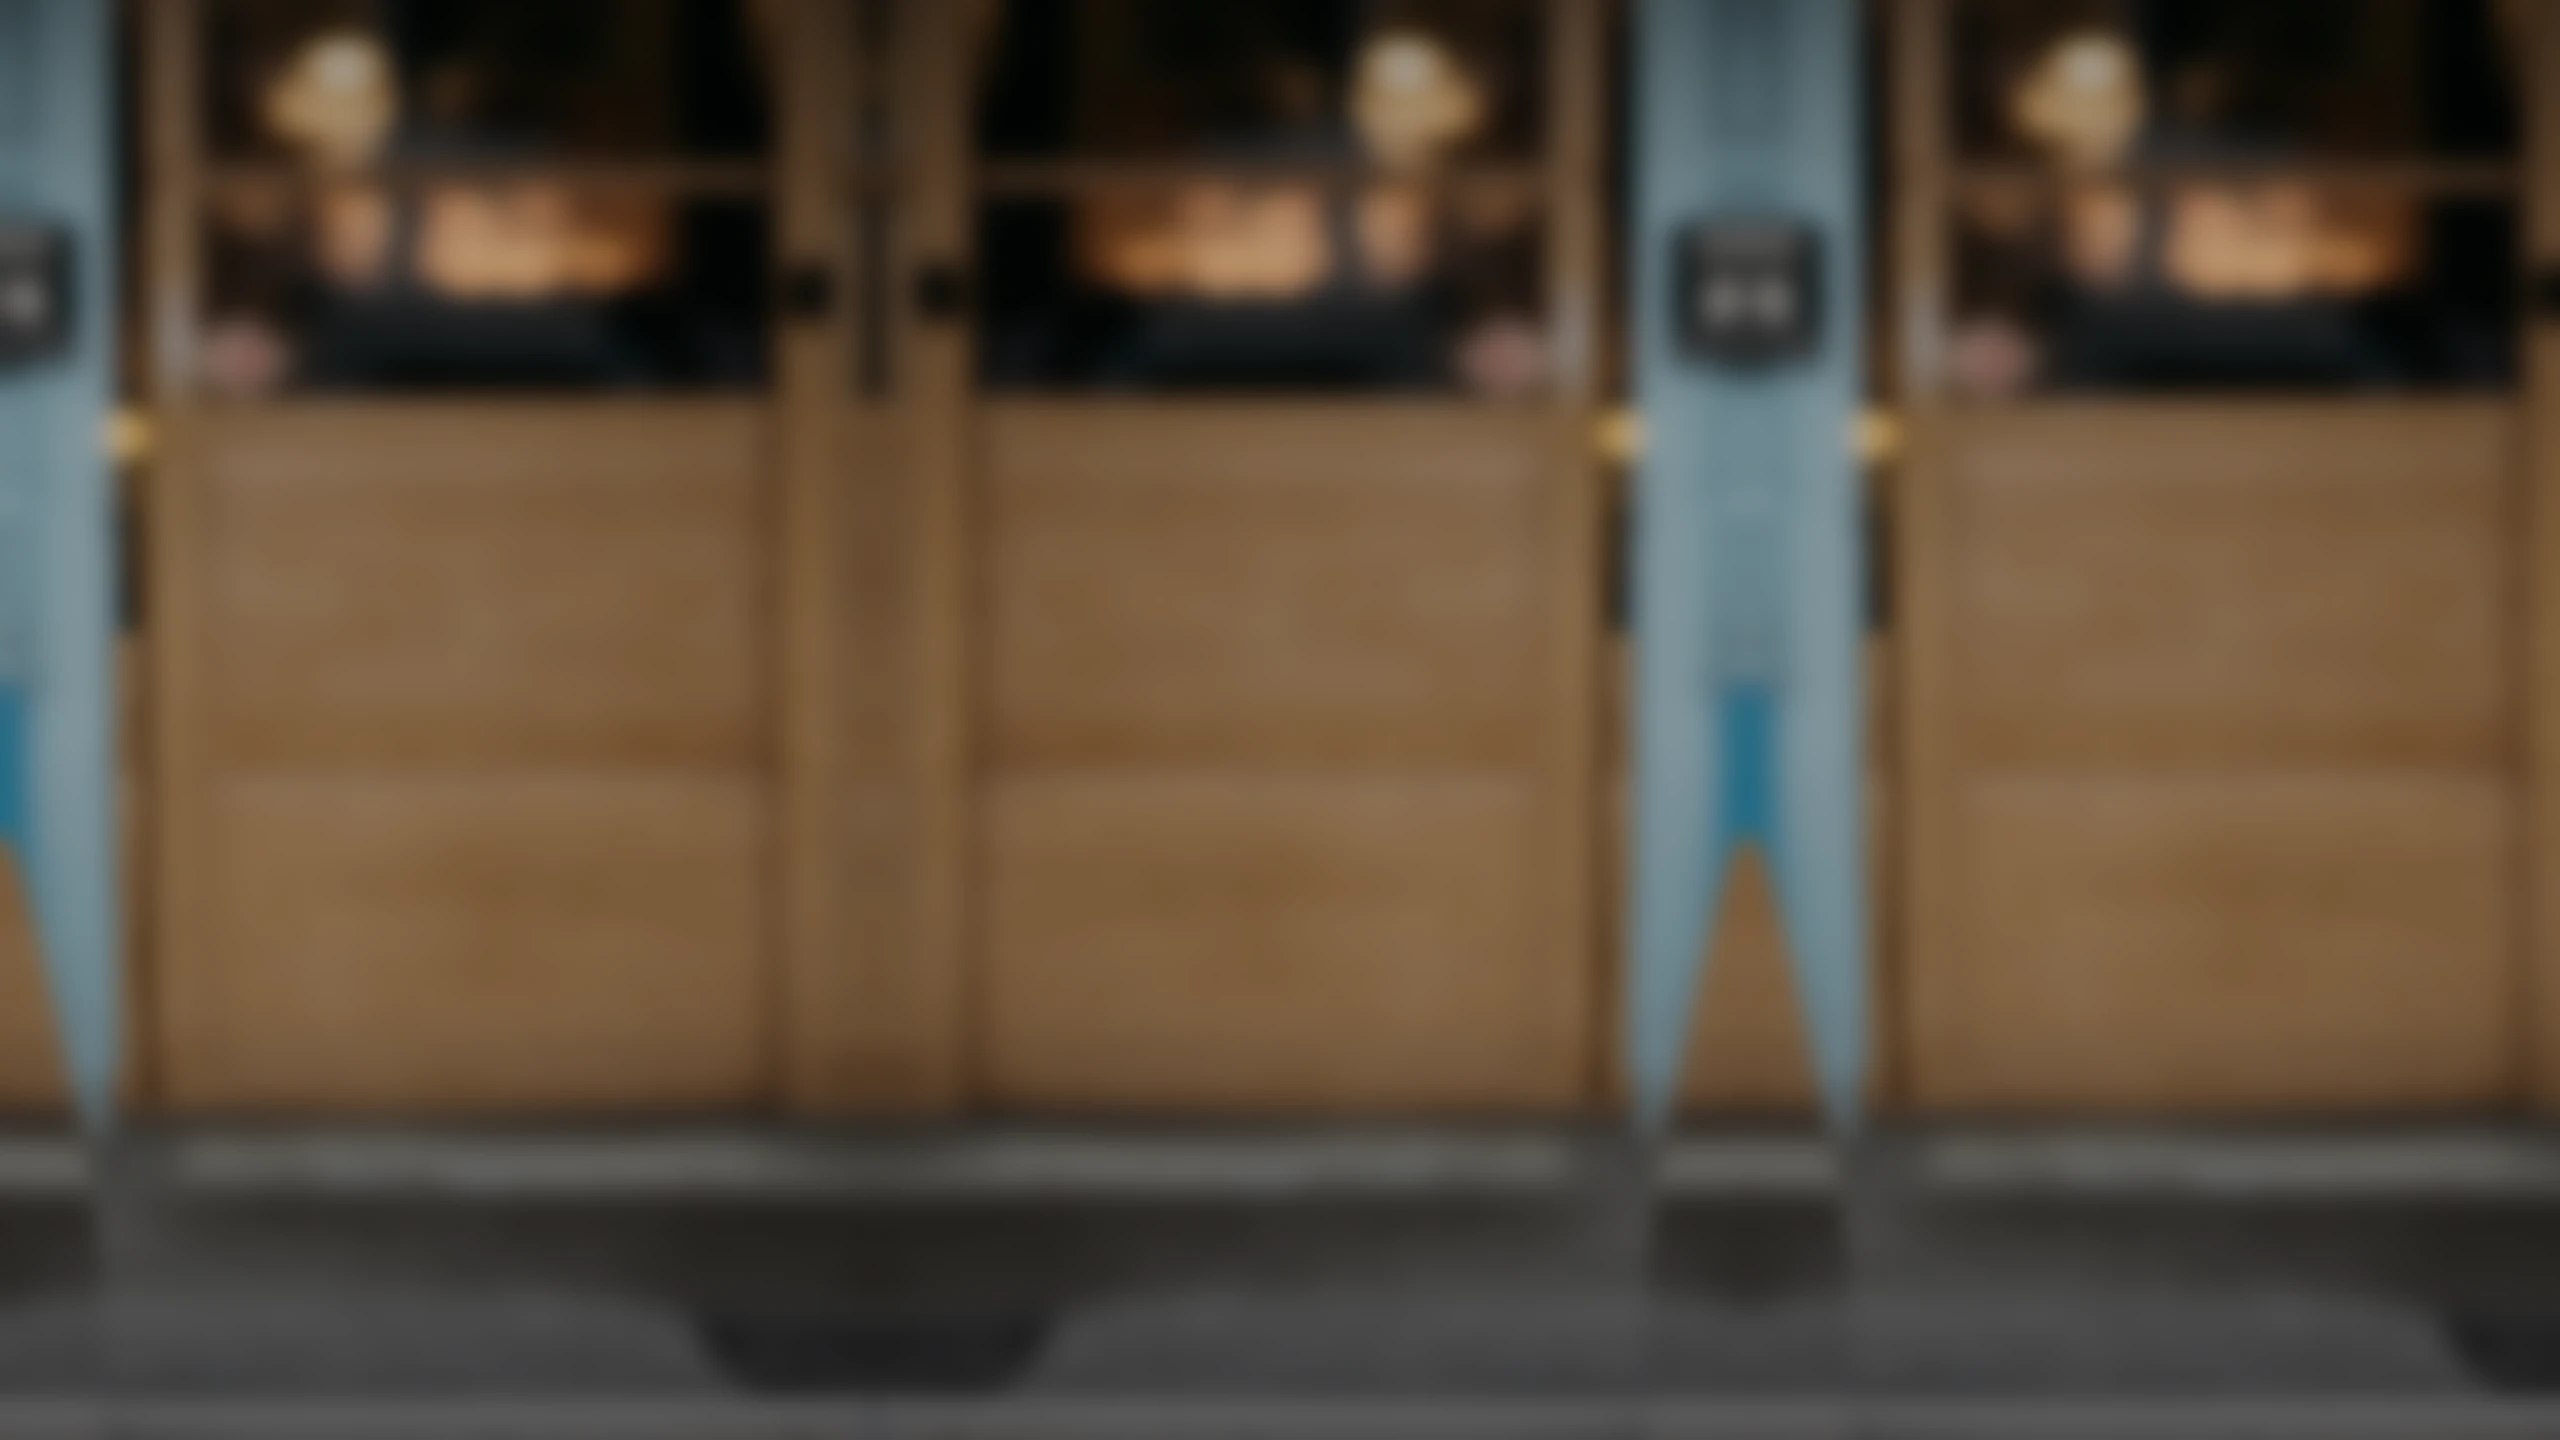
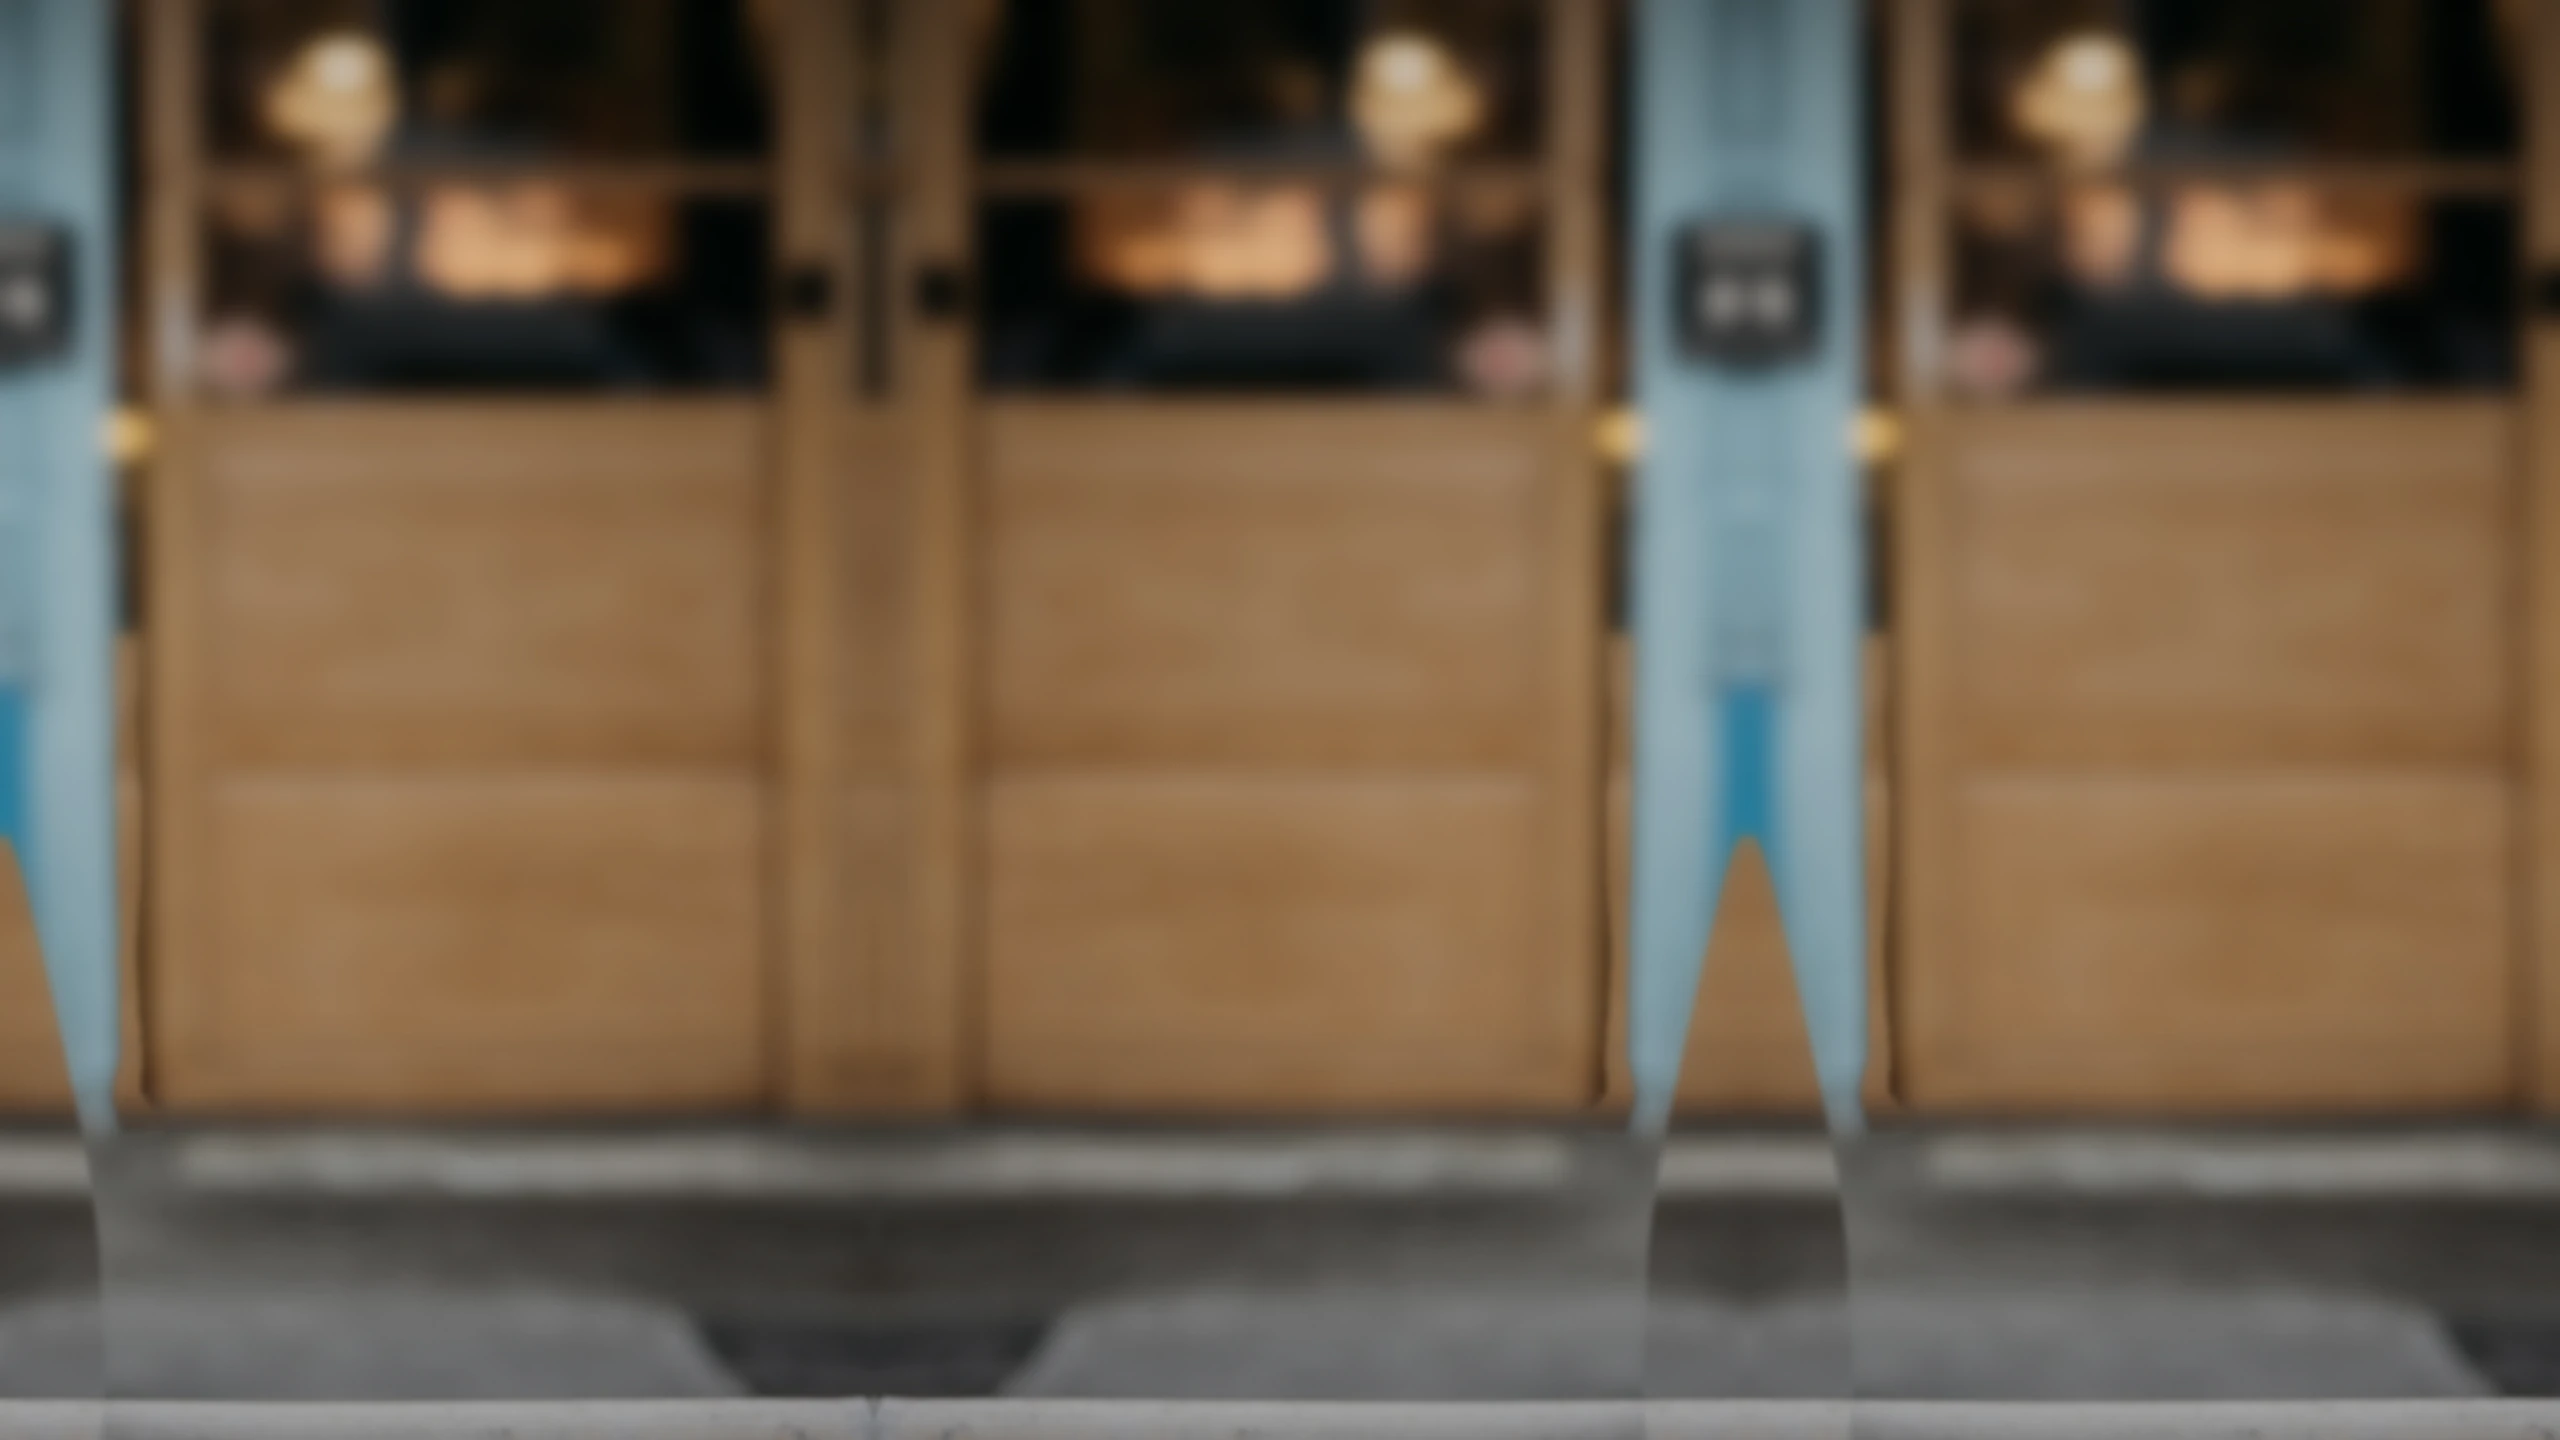
背景板改成分層失焦，並把底部加深收斂回來
使用者第三次回報「還是很奇怪」。前兩輪我都在修去背的個別瑕疵，這次先量
整體，發現真正的問題不在去背，在人物與背景「不像同一張照片」：

  ① 色溫    背景 R−B +29.8，人物 +3.9        差 26 階
  ② 銳利度  人物比背景銳利 5.0 倍             貼紙感的來源
  ③ 景深    她腳邊的地面(0.45) 比遠處(0.93) 還糊  完全反了
  ④ 底部    壓到 61-69 而中段是 98.7          地面被吃掉

這次修 ②③④，全部在背景板這一側，不用碰人物（所以不會踩到臉的 gamma 限制）。

分層失焦取代整片均勻模糊：上方（遠）高斯 10、下方（近地面）高斯 2，
用 ((y−0.42)/0.5)^0.8 混合。修正後遠處 1.06、近地面 0.90，前後關係對了。
第一版整片高斯 11，人站在一片失焦的地面上，看起來就是貼上去的。

底部加深從「y=0.66 起、強度 0.50」收斂成「y=0.78 起、強度 0.26」，
底部 10% 平均亮度 69 → 110，她腳下的人行道與緣石看得見了。
整體亮度 75 → 93。

字幕仍然安全：字幕帶最亮 160，疊上 CSS 那條 85% ink 之後是 46，
白字對比 14.3:1（AAA 是 7:1）。
順帶背景變亮也讓去背邊緣瑕疵變少：邊緣比背景亮 >40 的像素 9623 → 8138。

① 色溫沒有修，理由記在回覆裡：場景本來就該是暖的（木門＋店內暖光），
該調的是人物，但那會動到臉，要連 poster 與 video 一起調才不會出現色差。

檔案 54KB → 71KB。Tests 264 passed、tsc exit=0、build 乾淨。

diff --git a/app/live3/page.tsx b/app/live3/page.tsx
@@ -46,8 +46,23 @@ export const metadata: Metadata = {
  *      垂直內插＋雜訊＋羽化看得出補過
  *   3. 左右鏡射拼接到 2080×1170（16:9）。鏡面接縫是連續的，而且每一塊的
  *      垂直結構相同，所以地平線自動跨整張圖對齊
- *   4. 放大到 2560×1440 → **明確失焦**（高斯 11）→ 整體壓到 60% →
- *      底部由下往上加深、頂部輕微加深 → WebP q90（48 KB）
+ *   4. 放大到 2560×1440 → **分層失焦** → 整體壓到 86% →
+ *      底部由下往上加深、頂部輕微加深 → WebP q90
+ *
+ * 🔴 **分層失焦不是美術選擇，是修 bug。** 第一版整片用高斯 11 均勻模糊，
+ * 結果她腳邊的地面跟遠處的門一樣糊——真實照片不會這樣，人站在一片失焦的
+ * 地面上，看起來就是貼上去的。實測第一版：遠處局部對比 0.93、近地面 0.45
+ * （近的比遠的還糊，完全反了）。現在按 y 分層：上方（遠）高斯 10、
+ * 下方（近地面）高斯 2，用 `((y−0.42)/0.5)^0.8` 混合。
+ * 修正後遠處 1.06、近地面 0.90，前後關係對了。
+ *
+ * ⚠ 底部加深也一起收斂了（從 y=0.66 起、強度 0.50 → 從 y=0.78 起、強度 0.26）。
+ * 原本壓太深，把她腳下的人行道與緣石整個吃掉，變成她沒有站著的依據。
+ * 底部 10% 的平均亮度 69 → 110。
+ * 字幕仍然安全：字幕帶最亮 160，疊上 CSS 那條 85% ink 之後是 46，白字對比 14.3:1。
+ *
+ * ⚠ 順帶：背景變亮也讓去背的邊緣瑕疵變少（邊緣比背景亮 >40 的像素 9623 → 8138）。
+ * 理由見 poses.ts 檔尾「這條管線的天花板」那段。
  *
  * ⚠ 第 4 步的壓暗與烘漸層是**刻意做在圖檔上、不是調 CSS**。
  * `LiveStage` 底部那條 `from-ink via-ink/85 to-transparent` 是字幕可讀性的唯一
@@ -55,7 +70,7 @@ export const metadata: Metadata = {
  * `text-white/35`，而那是法定揭露）。算過：白字壓在 `ink/45` 上、底下是中間調
  * (L136) → 6.9:1 可以，但原圖有亮區（木門高光約 200、水泥緣石約 250），
  * 白字壓在 `ink/45` 上、底下 L250 → **2.4:1 不及格**。所以不能為了多露一點
- * 街景而把漸層調淡；把板子壓暗（最亮值從 250 降到 121）才是對的方向。
+ * 街景而把漸層調淡；把板子壓暗（原圖最亮 250 → 現在的板子 179）才是對的方向。
  *
  * 人物去背的作法在 `components/avatar/poses.ts` 的 `POSE_STANDING_STREET`。
  */
